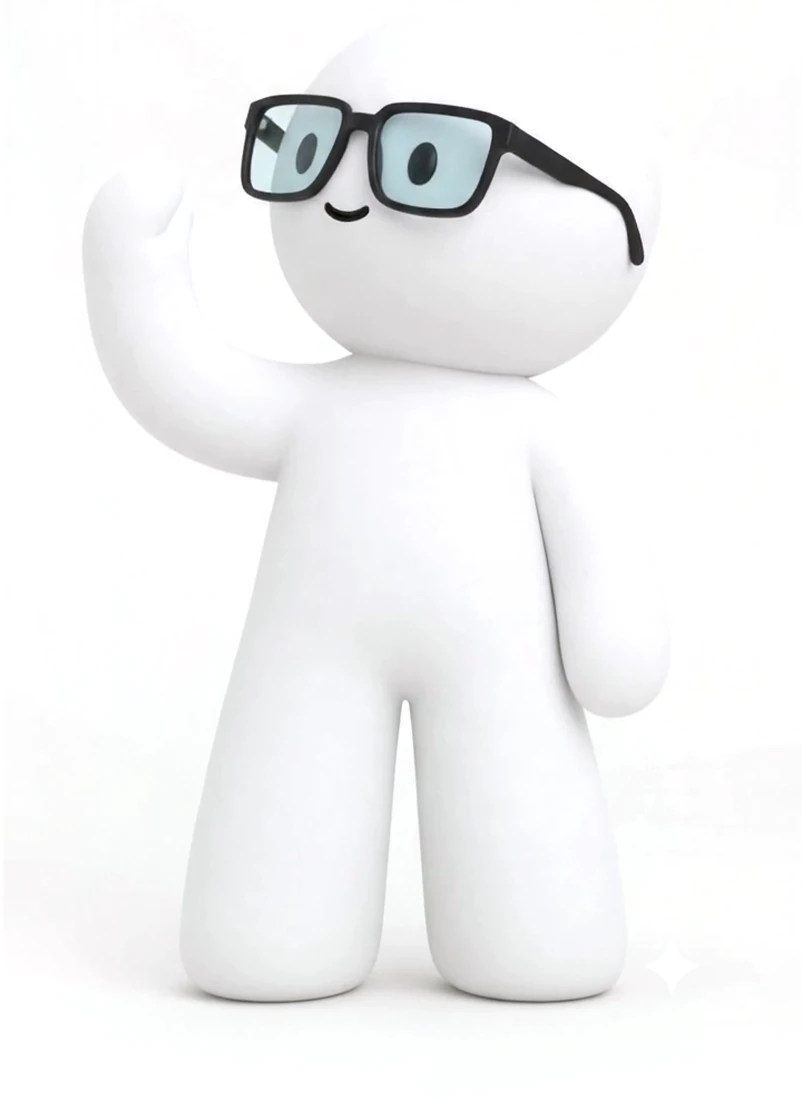
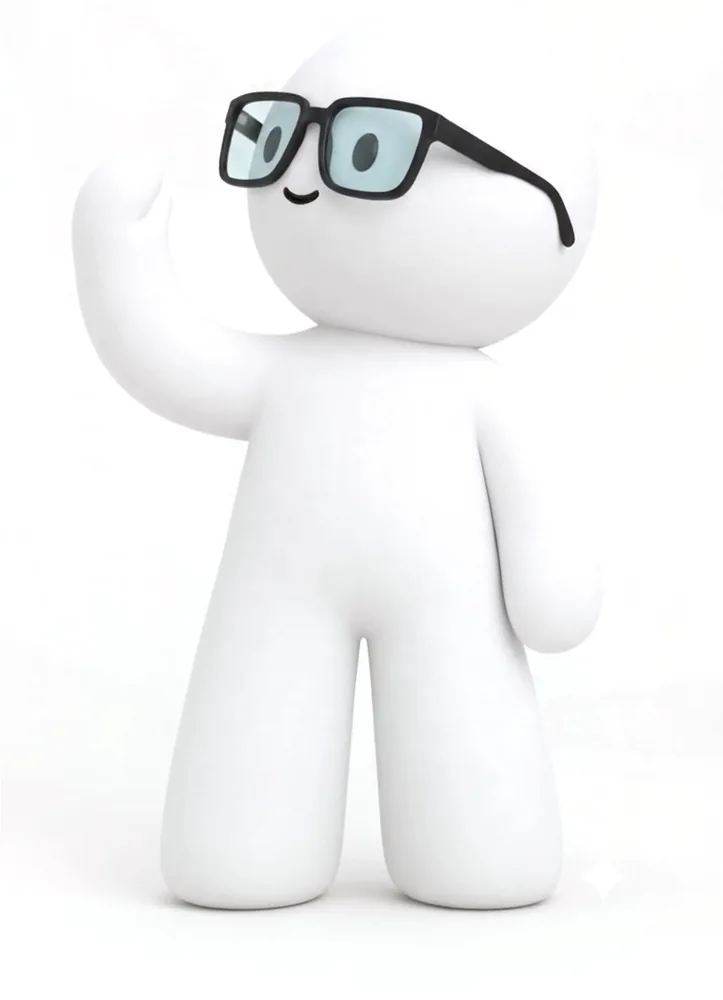
Sube a 33 cuadros y funde entre ellos
Con 13 el paso era de unos 9 grados y en varios tramos se veía el corte.
El video da hasta 41 ángulos distintos sin repetir cuadro — comprobado
contra el histograma de ángulos, que no tiene huecos — así que 33 cabe de
sobra.

Pero subir el número no era lo que faltaba: 33 ángulos siguen siendo 33
saltos. Lo que arregla el corte es fundir entre cuadros vecinos, y sale
más barato que duplicar imágenes.

Tres cosas que el fundido obligó a resolver:

- La multiplicación pasa del <img> al grupo que los contiene. Con dos
  cuadros encimados, multiplicar cada uno por su cuenta multiplica dos
  veces el tramo donde coincide el cuerpo y lo oscurece a media
  transición. En el grupo se mezclan primero entre ellos y el resultado
  se multiplica una sola vez.
- El destino se redondea a un cuadro entero. Fraccionario, con el cursor
  quieto a medio camino el fundido se congela en una mezcla de dos
  ángulos y se ve la cabeza doble. Así el fundido solo existe mientras el
  giro viaja, y en reposo siempre hay un cuadro limpio.
- La posición sale del estado de React y se escribe la opacidad directo
  en el DOM. Es una animación por frame, y re-renderizar 33 <img> a 60
  por segundo es justo lo que no hay que hacer; además solo se tocan los
  dos cuadros que participan del fundido.

Peso: 310 KB los 33, bajando la calidad del WebP a 82. A 90 eran 480 KB y
la diferencia no se ve — la suavidad que tienen viene del H.264 del video
original, no de la compresión que les pongo encima.
[…]

diff --git a/src/components/marketing/HeroProtagonista.tsx b/src/components/marketing/HeroProtagonista.tsx
@@ -1,51 +1,94 @@
 "use client";
 
-import { useEffect, useState } from "react";
+import { useEffect, useRef } from "react";
 import { useReducedMotion } from "framer-motion";
 
 /**
- * El personaje gira la cabeza hacia donde apuntas, cambiando de cuadro.
+ * El personaje gira la cabeza hacia donde apuntas.
+ *
+ * Son 33 cuadros fijos sacados de un video (ver scripts/hero-giro.py), no
+ * un video reproduciéndose: lo que hace falta es saltar a un ángulo
+ * arbitrario según dónde esté el cursor, y para eso hay que mover
+ * `currentTime` a mano, que en Safari de iPhone va a tirones.
  *
  * El índice 0 es la cabeza girada hacia la izquierda del espectador y el
  * último hacia la derecha, para que mire hacia donde está el cursor y no
  * al lado contrario.
  *
- * Los cuadros salen de `scripts/hero-giro.py`, que los elige por ángulo,
- * aplana el fondo y los alinea entre sí. Lo que sigue viniendo de fábrica
- * en este video: los reflejos están pegados en las micas y la compresión
- * se comió los bordes.
+ * Entre cuadro y cuadro se funde. Sin fundido, 33 ángulos siguen siendo 33
+ * saltos y en algunos tramos el corte canta; con él, el mismo material se
+ * lee continuo y sale más barato que duplicar el número de imágenes.
  */
 
-const CUADROS = 13;
+const CUADROS = 33;
 const RUTAS = Array.from({ length: CUADROS }, (_, i) => `/hero/giro/${String(i).padStart(2, "0")}.webp`);
-/** El recorrido se normaliza contra la distancia del personaje a cada
- *  borde de la ventana, no contra una distancia fija. Con una distancia
- *  fija y el personaje pegado a la derecha, el mouse nunca llega
- *  suficientemente lejos por ese lado y la mitad de los cuadros queda
- *  inalcanzable. */
+/** Cuánto se acerca la posición a su destino en cada frame. Bajo para que
+ *  el giro tenga algo de inercia y no se pegue al cursor como un espejo. */
+const SUAVIZADO = 0.12;
 
 export default function HeroProtagonista({ className = "" }: { className?: string }) {
   const reducirMovimiento = useReducedMotion();
-  const [cuadro, setCuadro] = useState(Math.floor(CUADROS / 2));
+  const caja = useRef<HTMLDivElement>(null);
+  const imagenes = useRef<(HTMLImageElement | null)[]>([]);
 
   useEffect(() => {
-    if (reducirMovimiento) return;
+    const centro = (CUADROS - 1) / 2;
+    // La posición no vive en el estado de React: se actualiza en cada
+    // frame de animación, y un re-render de 33 <img> a 60 por segundo es
+    // justo lo que no hay que hacer. Se escribe la opacidad directo en el
+    // DOM, y solo sobre los dos cuadros que participan del fundido.
+    let destino = centro;
+    let actual = centro;
+    let frame = 0;
+
+    const pintar = () => {
+      const bajo = Math.floor(actual);
+      const alto = Math.min(CUADROS - 1, bajo + 1);
+      const mezcla = actual - bajo;
+      imagenes.current.forEach((el, i) => {
+        if (!el) return;
+        const o = i === bajo ? 1 : i === alto ? mezcla : 0;
+        if (el.style.opacity !== String(o)) el.style.opacity = String(o);
+      });
+    };
+
+    if (reducirMovimiento) {
+      pintar();
+      return;
+    }
 
     const apuntar = (clientX: number) => {
-      const el = document.getElementById("protagonista");
+      const el = caja.current;
       if (!el) return;
       const r = el.getBoundingClientRect();
       const cx = r.left + r.width / 2;
+      // El recorrido se normaliza contra la distancia a cada borde de la
+      // ventana y no contra una distancia fija: con distancia fija y el
+      // personaje pegado a la derecha, el cursor no llega suficientemente
+      // lejos por ese lado y la mitad de los cuadros queda inalcanzable.
       const margen = Math.max(80, clientX < cx ? cx : window.innerWidth - cx);
-      const t = (clientX - cx) / margen;
-      const i = Math.round(((Math.max(-1, Math.min(1, t)) + 1) / 2) * (CUADROS - 1));
-      setCuadro(i);
+      const t = Math.max(-1, Math.min(1, (clientX - cx) / margen));
+      // El destino se redondea a un cuadro entero. Si se dejara
+      // fraccionario, con el cursor quieto a medio camino el fundido se
+      // congela en una mezcla de dos ángulos y se ve la cabeza doble. Así
+      // el fundido solo existe mientras el giro viaja, y en reposo siempre
+      // hay un cuadro limpio.
+      destino = Math.round(((t + 1) / 2) * (CUADROS - 1));
+    };
+
+    const paso = () => {
+      actual += (destino - actual) * SUAVIZADO;
+      if (Math.abs(destino - actual) < 0.01) actual = destino;
+      pintar();
+      frame = requestAnimationFrame(paso);
     };
 
     const alMover = (e: PointerEvent) => apuntar(e.clientX);
     window.addEventListener("pointermove", alMover, { passive: true });
     window.addEventListener("pointerdown", alMover, { passive: true });
+    frame = requestAnimationFrame(paso);
     return () => {
+      cancelAnimationFrame(frame);
       window.removeEventListener("pointermove", alMover);
       window.removeEventListener("pointerdown", alMover);
     };
@@ -56,20 +99,26 @@ export default function HeroProtagonista({ className = "" }: { className?: strin
     // pero le da al multiply de los cuadros algo contra qué multiplicar.
     // El fondo de los cuadros quedó en blanco exacto al aplanarlo, así que
     // multiplicado contra este color desaparece.
-    <div id="protagonista" className={`relative ${className}`} style={{ backgroundColor: "var(--background)" }}>
-      {/* Los trece van en el DOM desde el principio y solo se enciende uno.
-          Cargarlos bajo demanda haría que el primer giro hacia cada lado
-          llegara con un parpadeo en blanco. */}
-      {RUTAS.map((ruta, i) => (
-        <img
-          key={ruta}
-          src={ruta}
-          alt=""
-          aria-hidden="true"
-          className="absolute inset-0 h-full w-full object-contain object-bottom mix-blend-multiply"
-          style={{ opacity: i === cuadro ? 1 : 0 }}
-        />
-      ))}
+    <div ref={caja} className={`relative ${className}`} style={{ backgroundColor: "var(--background)" }}>
+      {/* La multiplicación va en el grupo y no en cada <img>: con dos
+          cuadros fundiéndose, multiplicar cada uno por separado multiplica
+          dos veces el tramo donde se encima el cuerpo y lo oscurece a
+          media transición. Aquí se mezclan primero entre ellos y el
+          resultado se multiplica una sola vez. */}
+      <div aria-hidden="true" className="absolute inset-0 mix-blend-multiply">
+        {RUTAS.map((ruta, i) => (
+          <img
+            key={ruta}
+            ref={(el) => {
+              imagenes.current[i] = el;
+            }}
+            src={ruta}
+            alt=""
+            className="absolute inset-0 h-full w-full object-contain object-bottom"
+            style={{ opacity: i === Math.floor((CUADROS - 1) / 2) ? 1 : 0 }}
+          />
+        ))}
+      </div>
     </div>
   );
 }

diff --git a/src/components/marketing/Hero.tsx b/src/components/marketing/Hero.tsx
@@ -69,7 +69,7 @@ export default function Hero() {
           Cortado por el borde derecho a propósito: un cuerpo entero
           centrado siempre se lee pequeño, porque tiene que caber y la
           mitad del espacio se le va en aire alrededor. */}
-      <HeroProtagonista className="pointer-events-none order-2 mx-auto mt-10 aspect-[802/1100] h-72 sm:absolute sm:bottom-0 sm:-right-8 sm:order-none sm:mx-0 sm:mt-0 sm:h-[78%] lg:right-0 lg:h-[94%]" />
+      <HeroProtagonista className="pointer-events-none order-2 mx-auto mt-10 aspect-[723/1000] h-72 sm:absolute sm:bottom-0 sm:-right-8 sm:order-none sm:mx-0 sm:mt-0 sm:h-[78%] lg:right-0 lg:h-[94%]" />
     </section>
   );
 }

diff --git a/scripts/hero-giro.py b/scripts/hero-giro.py
@@ -98,7 +98,7 @@ def ancla(plano):
     return float(np.median(piernas)), int(ys.max()), (int(xs.min()), int(xs.max()), int(ys.min()))
 
 
-def main(video, n_cuadros=13, salida="public/hero/giro", alto=1100):
+def main(video, n_cuadros=33, salida="public/hero/giro", alto=1000):
     with tempfile.TemporaryDirectory() as tmp:
         fs = extraer(video, tmp)
         print(f"{len(fs)} cuadros extraídos")
@@ -118,6 +118,9 @@ def main(video, n_cuadros=13, salida="public/hero/giro", alto=1100):
         # invierte. Sin esto, el personaje mira al lado contrario del clic.
         objetivos = np.linspace(hi, lo, n_cuadros)
         elegidos = [min(validos, key=lambda v: abs(v[1] - t))[0] for t in objetivos]
+        if len(set(elegidos)) < n_cuadros:
+            print(f"  aviso: solo {len(set(elegidos))} ángulos distintos disponibles; "
+                  f"hay cuadros repetidos")
 
         planos, anclas = [], []
         for i in elegidos:
@@ -150,7 +153,7 @@ def main(video, n_cuadros=13, salida="public/hero/giro", alto=1100):
             )
             ancho = round(rec.width * alto / rec.height)
             rec.resize((ancho, alto), Image.LANCZOS).save(
-                os.path.join(salida, f"{k:02d}.webp"), quality=90, method=6
+                os.path.join(salida, f"{k:02d}.webp"), quality=82, method=6
             )
         peso = sum(os.path.getsize(os.path.join(salida, f)) for f in os.listdir(salida))
         print(f"{n_cuadros} cuadros de {ancho}x{alto} — {peso // 1024} KB en total")
@@ -158,4 +161,4 @@ def main(video, n_cuadros=13, salida="public/hero/giro", alto=1100):
 
 
 if __name__ == "__main__":
-    main(sys.argv[1], int(sys.argv[2]) if len(sys.argv) > 2 else 13)
+    main(sys.argv[1], int(sys.argv[2]) if len(sys.argv) > 2 else 33)
